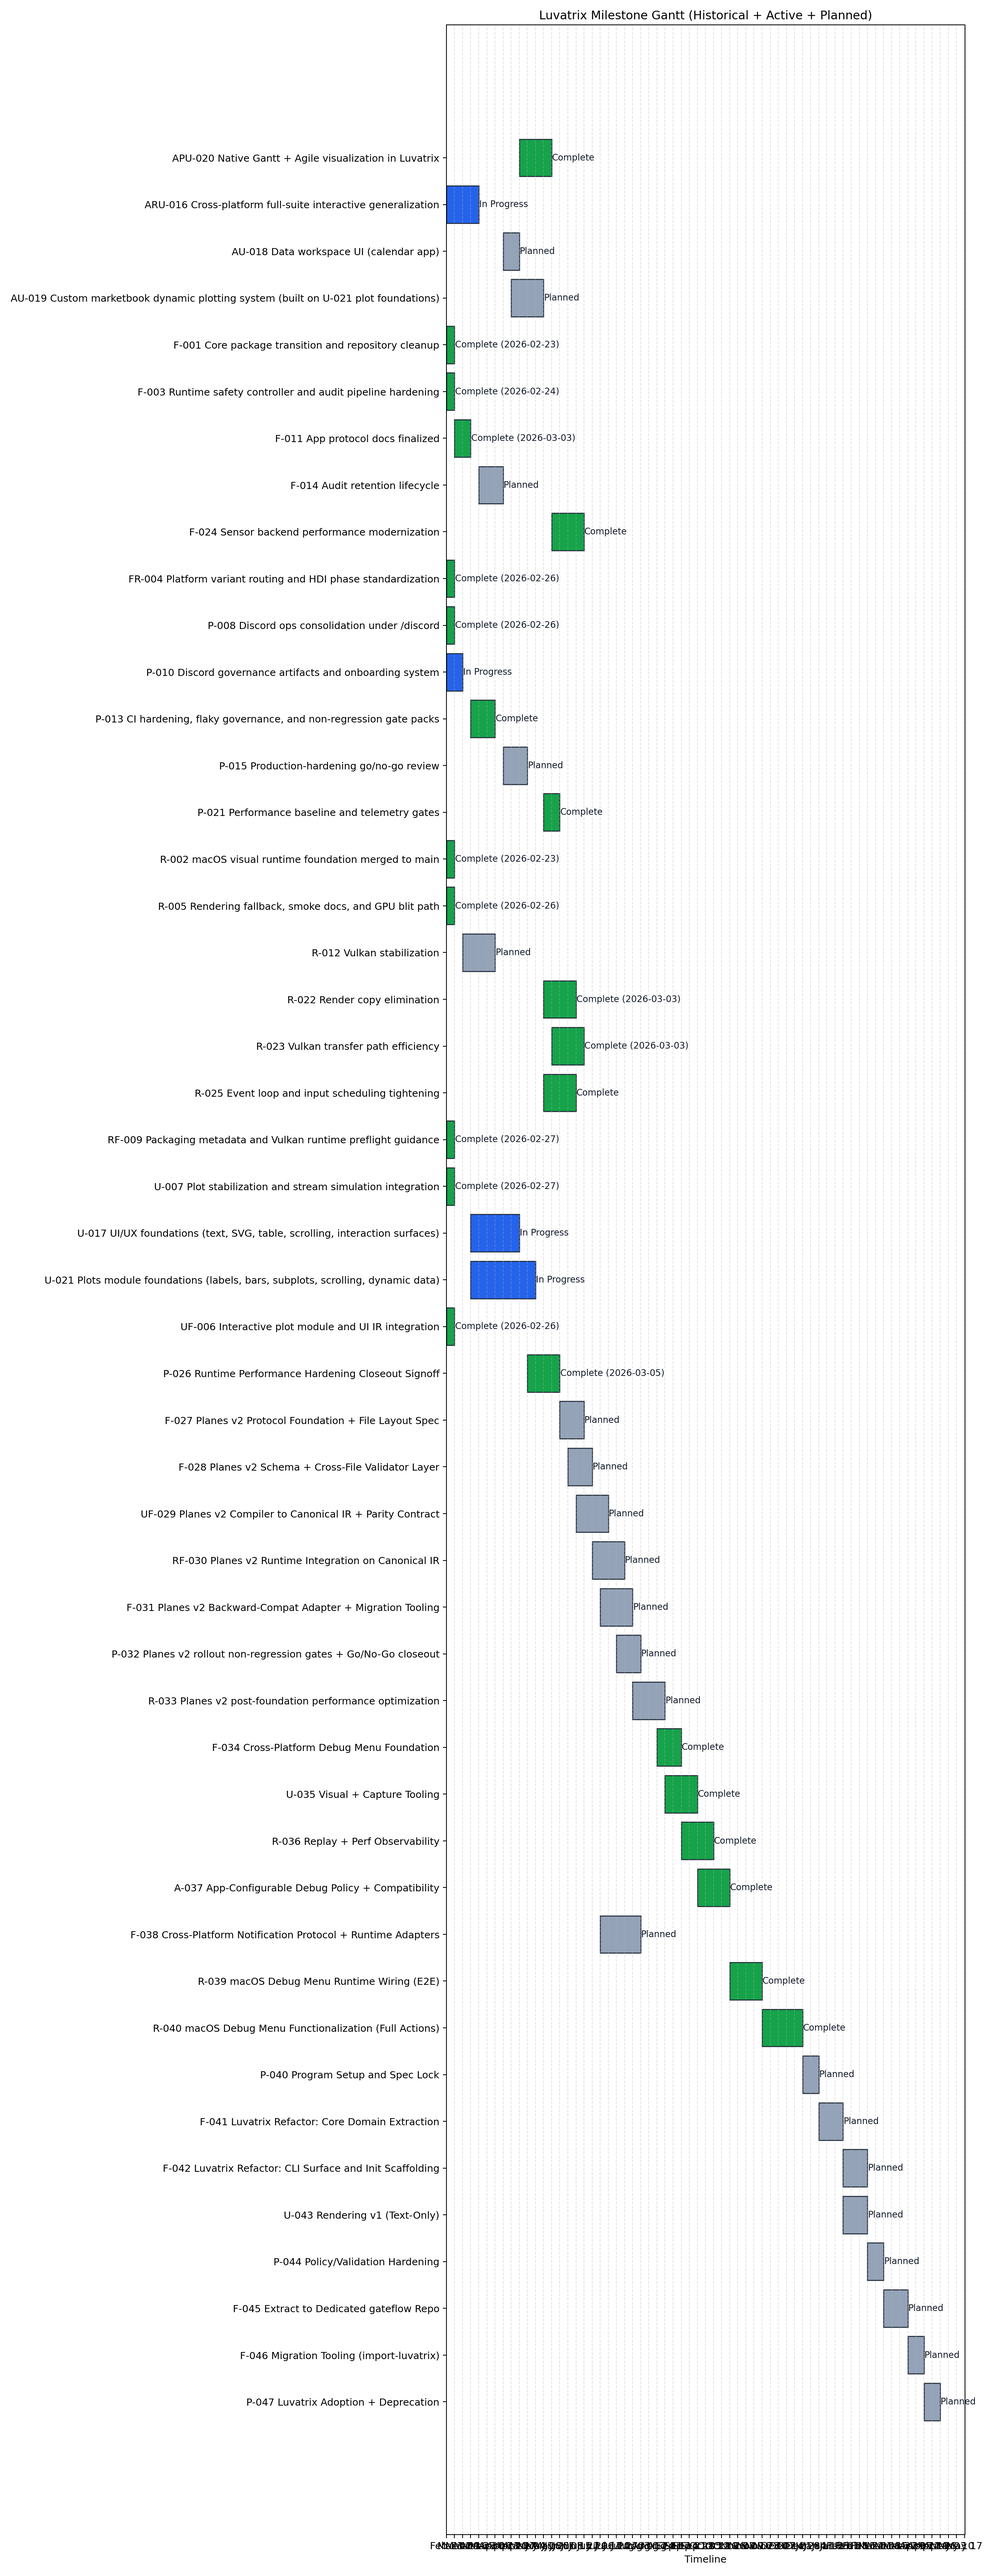
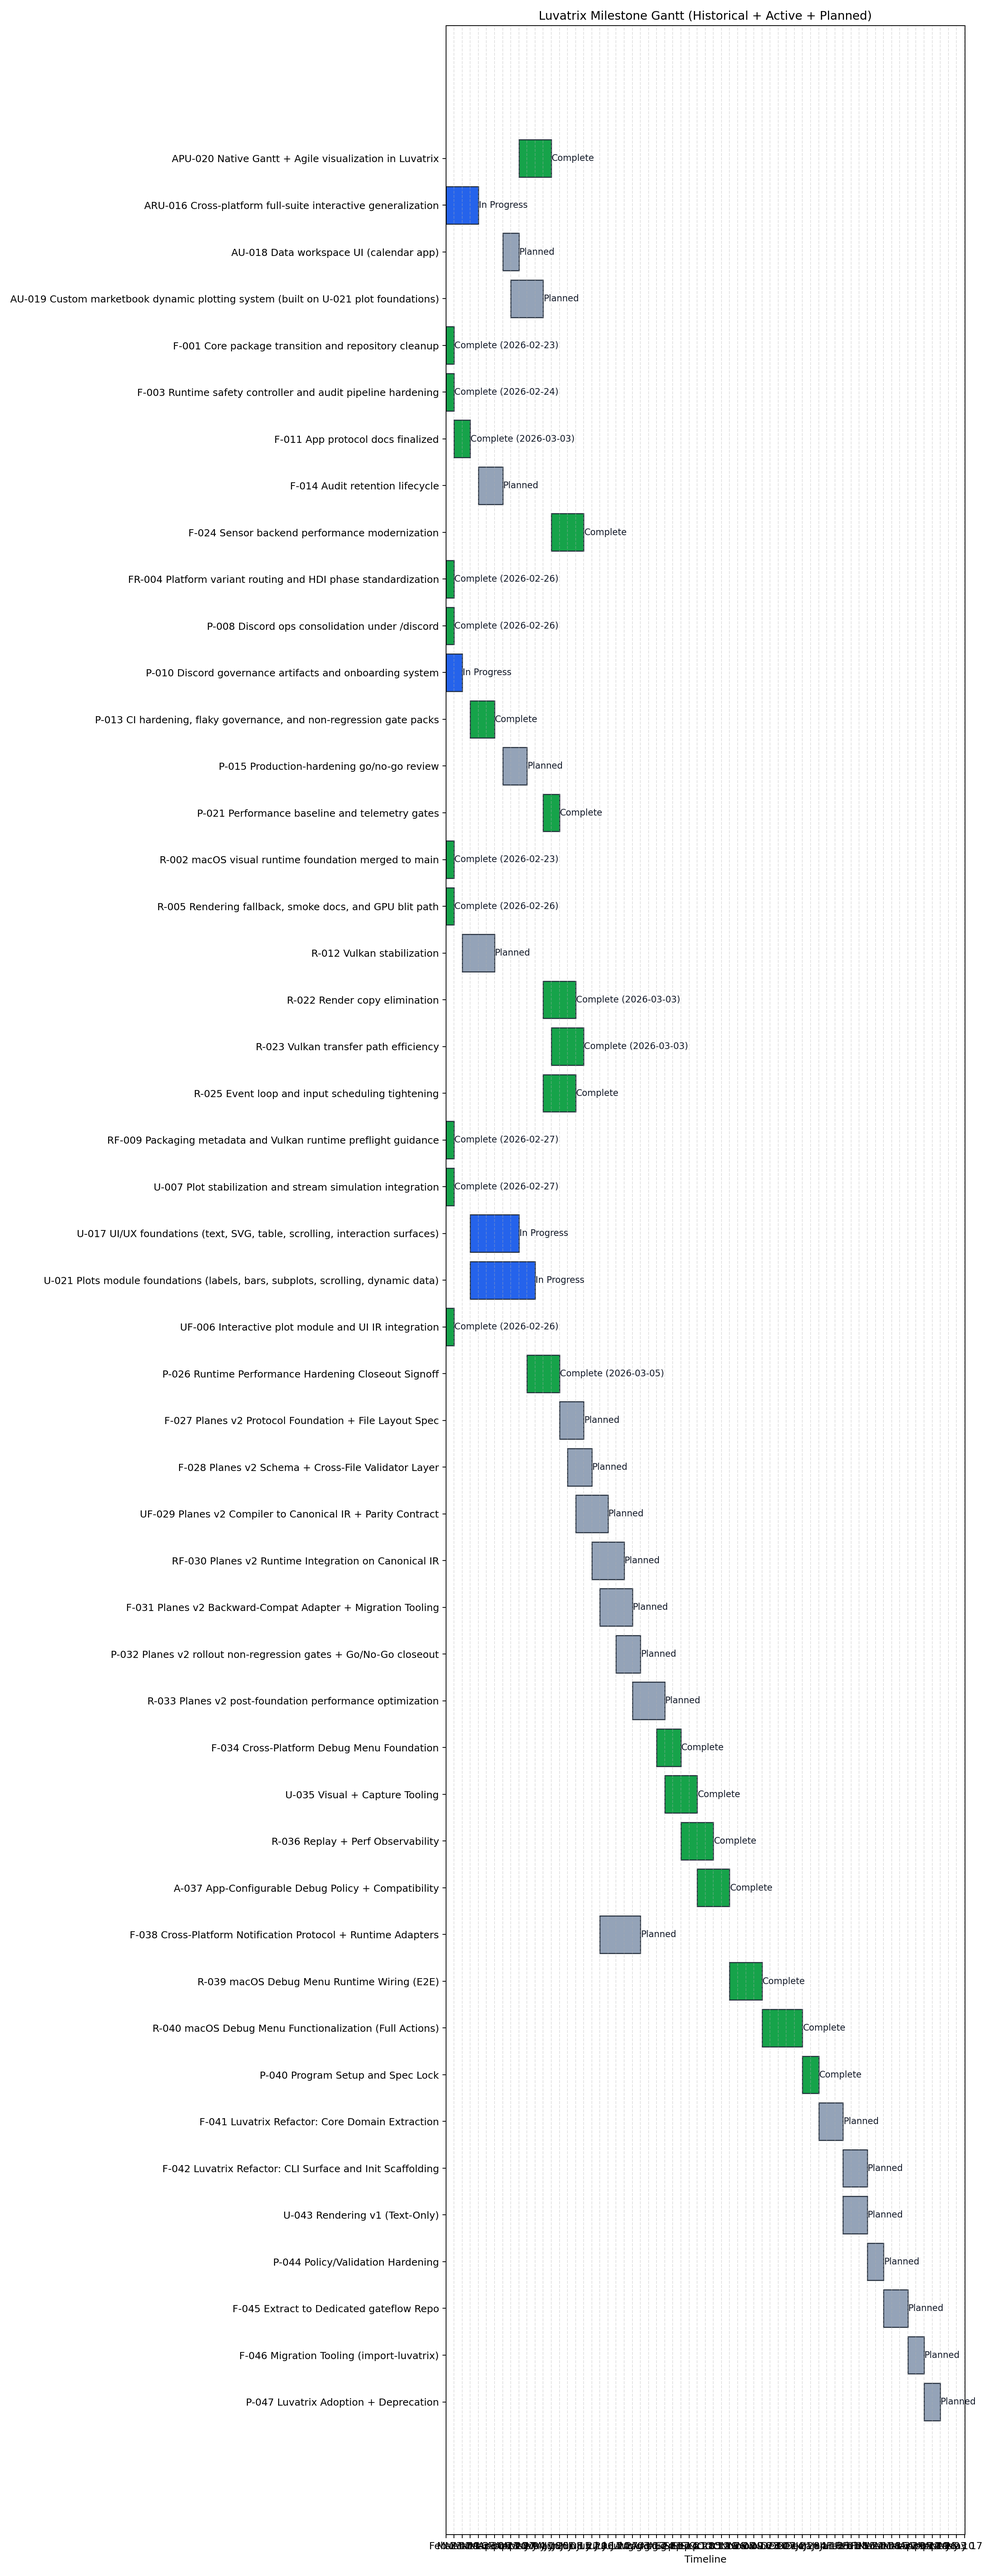
P-040: mark milestone complete after closeout validation

diff --git a/ops/planning/gantt/milestones_gantt.md b/ops/planning/gantt/milestones_gantt.md
@@ -47,7 +47,7 @@ A-037 🧩 App-Configurable Debug Policy + Compatibility                        
 F-038 🔔 Cross-Platform Notification Protocol + Runtime Adapters                       |                                                                                                                                     ~~~~~~~~~~~~~~~~~~~~~~~~~~~~~~~~~~~                                                                                                                                                                                                                                                                   | Planned
 R-039 🍎 macOS Debug Menu Runtime Wiring (E2E)                                         |                                                                                                                                                                                                                                                     ============================                                                                                                                                                          | Complete
 R-040 🧰 macOS Debug Menu Functionalization (Full Actions)                             |                                                                                                                                                                                                                                                                                 ===================================                                                                                                                       | Complete
-P-040 🧭 Program Setup and Spec Lock                                                   |                                                                                                                                                                                                                                                                                                                    ~~~~~~~~~~~~~~                                                                                                         | Planned
+P-040 🧭 Program Setup and Spec Lock                                                   |                                                                                                                                                                                                                                                                                                                    ==============                                                                                                         | Complete
 F-041 🧱 Luvatrix Refactor: Core Domain Extraction                                     |                                                                                                                                                                                                                                                                                                                                  ~~~~~~~~~~~~~~~~~~~~~                                                                                    | Planned
 F-042 🛠 Luvatrix Refactor: CLI Surface and Init Scaffolding                          |                                                                                                                                                                                                                                                                                                                                                       ~~~~~~~~~~~~~~~~~~~~~                                                               | Planned
 U-043 📝 Rendering v1 (Text-Only)                                                      |                                                                                                                                                                                                                                                                                                                                                       ~~~~~~~~~~~~~~~~~~~~~                                                               | Planned
@@ -488,7 +488,7 @@ Legend: '=' Complete, '#' In Progress, '~' Planned, '!' At Risk, 'x' Blocked
   - Rollback switch disables functional wiring cleanly.
 
 ### P-040 🧭 Program Setup and Spec Lock
-- Status: Planned
+- Status: Complete
 - Target window: Week 45-46
 - Tasks: `T-4000, T-4001, T-4002, T-4003, T-4004, T-4005`
 - Lifecycle events:
